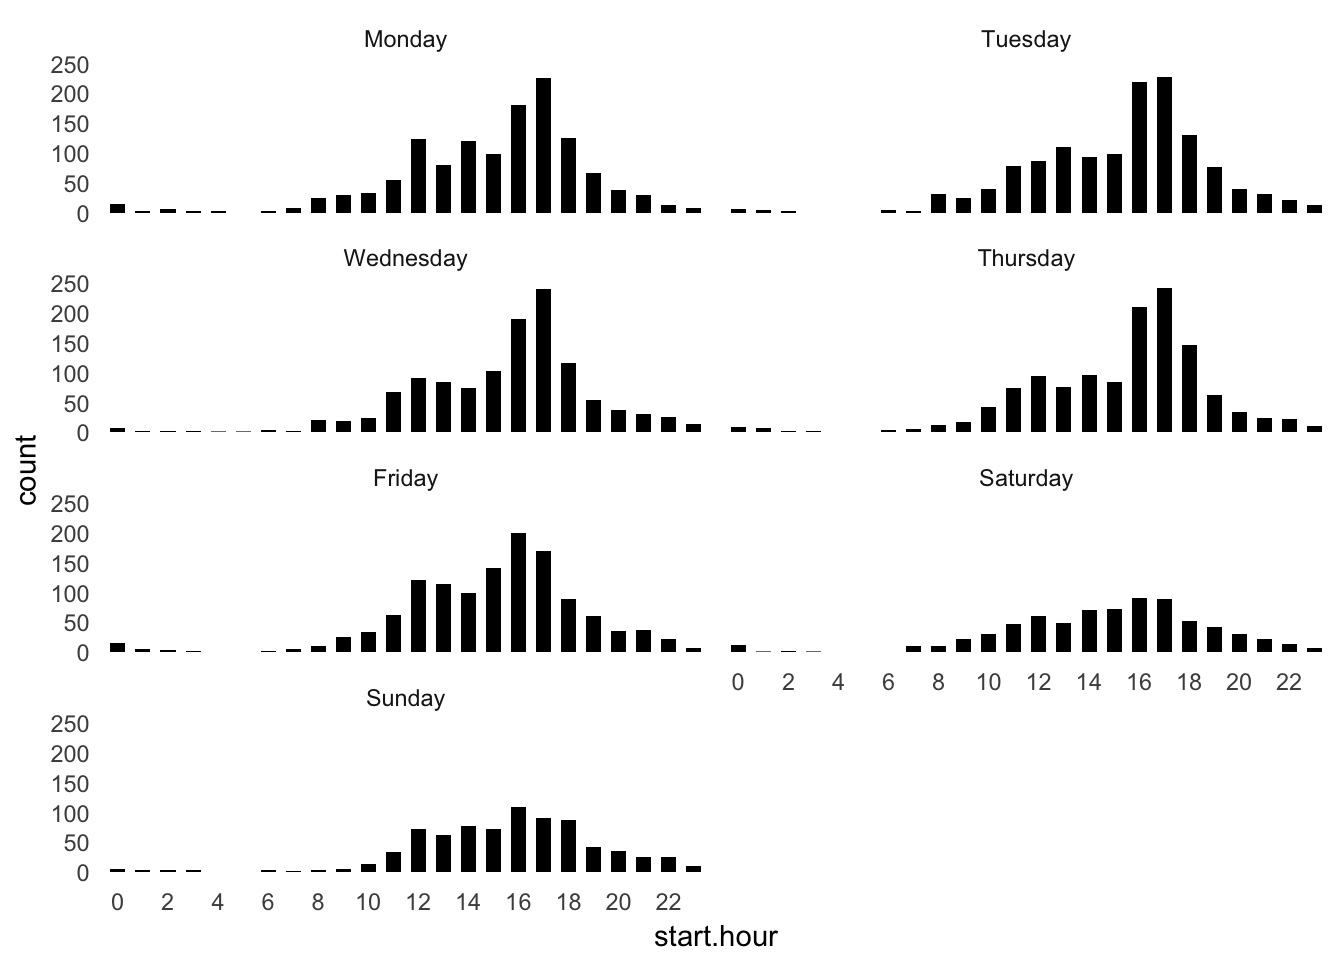
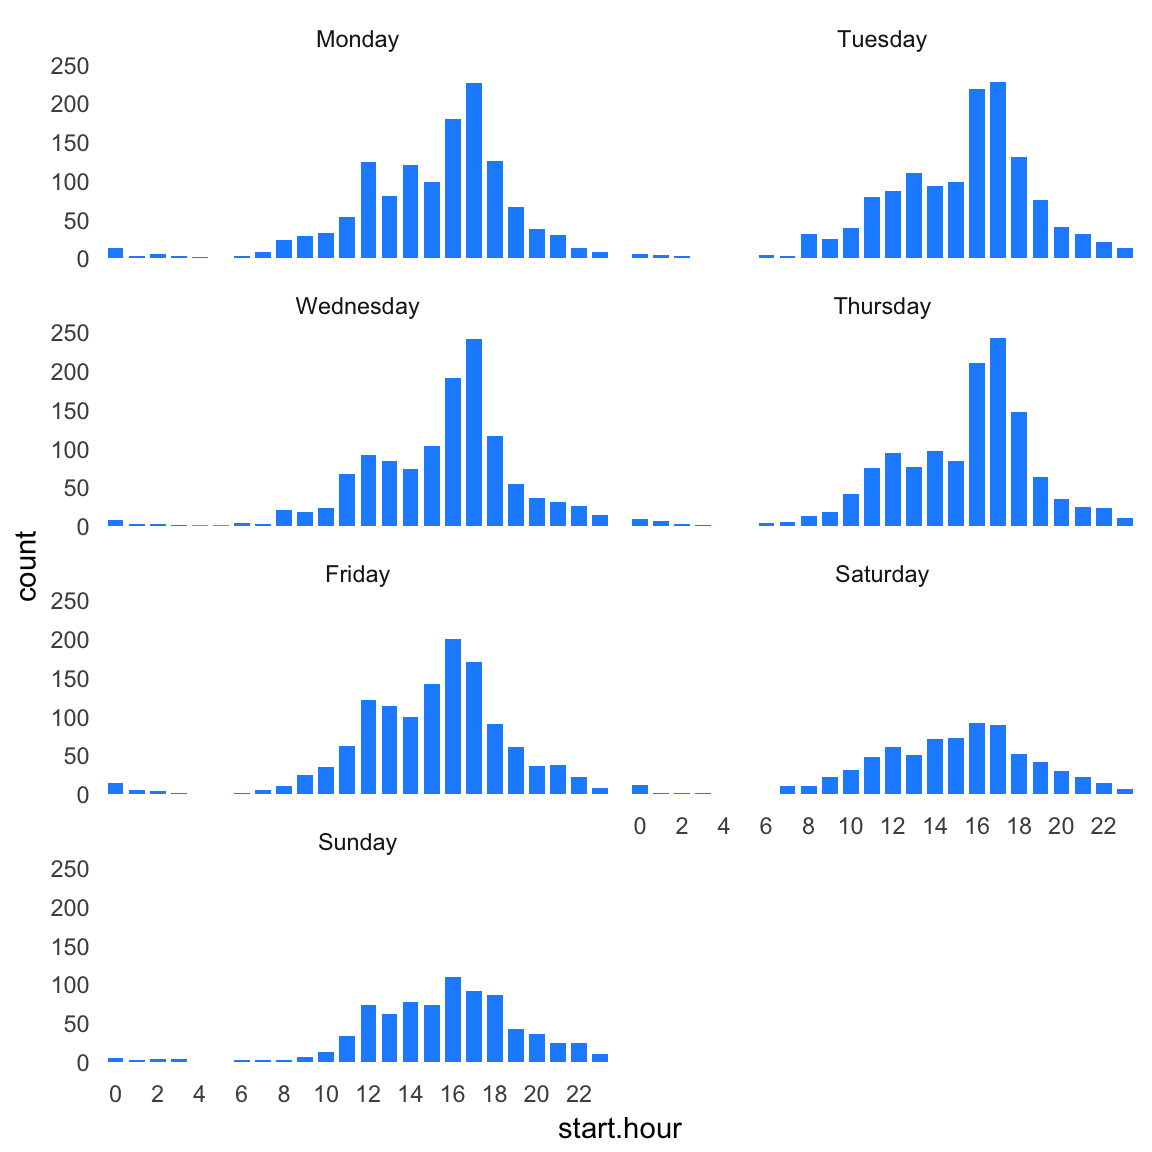
A bunch of small revisions to time-of-day trends notebook.

diff --git a/docs/time-of-day-trends.html b/docs/time-of-day-trends.html
@@ -309,7 +309,7 @@ div.tocify {
 <p><strong>Last updated:</strong> 2017-07-06</p>
 <!-- Insert the code version (Git commit SHA1) if Git repository
  exists and R package git2r is installed -->
-<p><strong>Code version:</strong> e67cefb</p>
+<p><strong>Code version:</strong> 426d238</p>
 <p>Here we use the Divvy trip data to examine biking trends over the course of a typical day in Chicago.</p>
 <p>I begin by loading a few packages, as well as some additional functions I wrote for this project.</p>
 <pre class="r"><code>library(data.table)
@@ -333,37 +333,39 @@ source(&quot;../code/functions.R&quot;)</code></pre>
 <pre class="r"><code>divvy$trips &lt;- transform(divvy$trips,start.hour = factor(start.hour,0:23))</code></pre>
 <p><br></p>
 </div>
-<div id="count-departures" class="section level2">
-<h2>Count departures</h2>
+<div id="count-departures-by-time-of-day" class="section level2">
+<h2>Count departures by time-of-day</h2>
 <p>Now that <code>start.hour</code> is a factor, it is easy to create a bar chart showing the total number of departures at each hour.</p>
-<p>Unsurprisingly, there is very little biking activity at night. The two peaks (“modes”) in the bar chart nicely recapitulate the morning and afternoon rush hours.</p>
+<p>Unsurprisingly, there is very little biking activity at night.</p>
+<p>Further, the two peaks (“modes”) in the bar chart nicely recapitulate the morning and afternoon rush hours.</p>
 <pre class="r"><code>ggplot(divvy$trips,aes(start.hour)) +
-  geom_bar(fill = &quot;black&quot;,width = 0.6) +
+  geom_bar(fill = &quot;dodgerblue&quot;,width = 0.6) +
   theme_minimal() +
   theme(panel.grid.major = element_blank(),
         panel.grid.minor = element_blank())</code></pre>
-<p><img src="figure/time-of-day-trends.Rmd/timeofday-barchart-1.png" width="672" style="display: block; margin: auto;" /></p>
-<p>This summary is a bit muddled because it is counting trips on the both weekdays and weekends; once we separate the counts by the day of the week, the rush-hour trends become more striking (and disappear completely on Saturday and Sunday).</p>
+<p><img src="figure/time-of-day-trends.Rmd/timeofday-barchart-1.png" width="480" style="display: block; margin: auto;" /></p>
+<p>This summary is a bit muddled because it is counting trips during the week and on the weekends. Once we separate the counts by the day of the week, the rush-hour trends become more striking. (Also notice that the rush hours disappear on Saturday and Sunday.)</p>
 <pre class="r"><code>ggplot(divvy$trips,aes(start.hour)) +
-  geom_bar(fill = &quot;black&quot;,width = 0.6) +
+  geom_bar(fill = &quot;dodgerblue&quot;,width = 0.75) +
   facet_wrap(~start.day,ncol = 2) +
   scale_x_discrete(breaks = seq(0,24,2)) +
   theme_minimal() +
   theme(panel.grid.major = element_blank(),
         panel.grid.minor = element_blank())</code></pre>
-<p><img src="figure/time-of-day-trends.Rmd/timeofday-barchart-2-1.png" width="672" style="display: block; margin: auto;" /> <br></p>
+<p><img src="figure/time-of-day-trends.Rmd/timeofday-barchart-2-1.png" width="576" style="display: block; margin: auto;" /> <br></p>
 </div>
-<div id="university-of-chicago-trends" class="section level2">
-<h2>University of Chicago trends</h2>
+<div id="time-of-day-trends-at-university-of-chicago" class="section level2">
+<h2>Time-of-day trends at University of Chicago</h2>
+<p>The commuting trends are different at the University of Chicago Divvy station—there isn’t much of a morning rush hour. This may be because students and staff don’t regularly use the Divvy bikes for commuting.</p>
 <pre class="r"><code>ggplot(subset(divvy$trips,from_station_name == &quot;University Ave &amp; 57th St&quot;),
        aes(start.hour)) +
-  geom_bar(fill = &quot;black&quot;,width = 0.6) +
+  geom_bar(fill = &quot;dodgerblue&quot;,width = 0.75) +
   facet_wrap(~start.day,ncol = 2) +
   scale_x_discrete(breaks = seq(0,24,2)) +
   theme_minimal() +
   theme(panel.grid.major = element_blank(),
         panel.grid.minor = element_blank())</code></pre>
-<p><img src="figure/time-of-day-trends.Rmd/timeofday-uchicago-barchart-1.png" width="672" style="display: block; margin: auto;" /></p>
+<p><img src="figure/time-of-day-trends.Rmd/timeofday-uchicago-barchart-1.png" width="576" style="display: block; margin: auto;" /></p>
 <p><br></p>
 </div>
 <div id="session-information" class="section level2">
